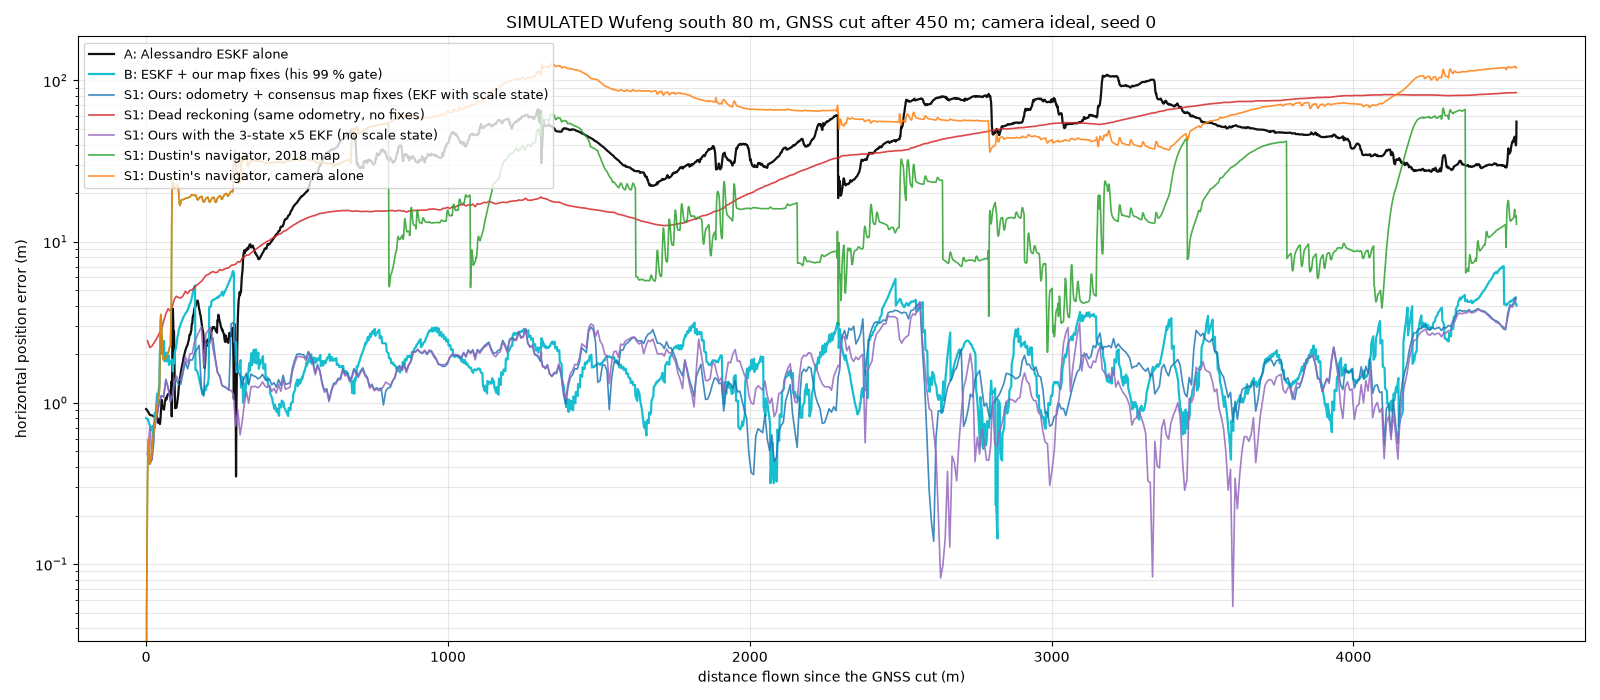
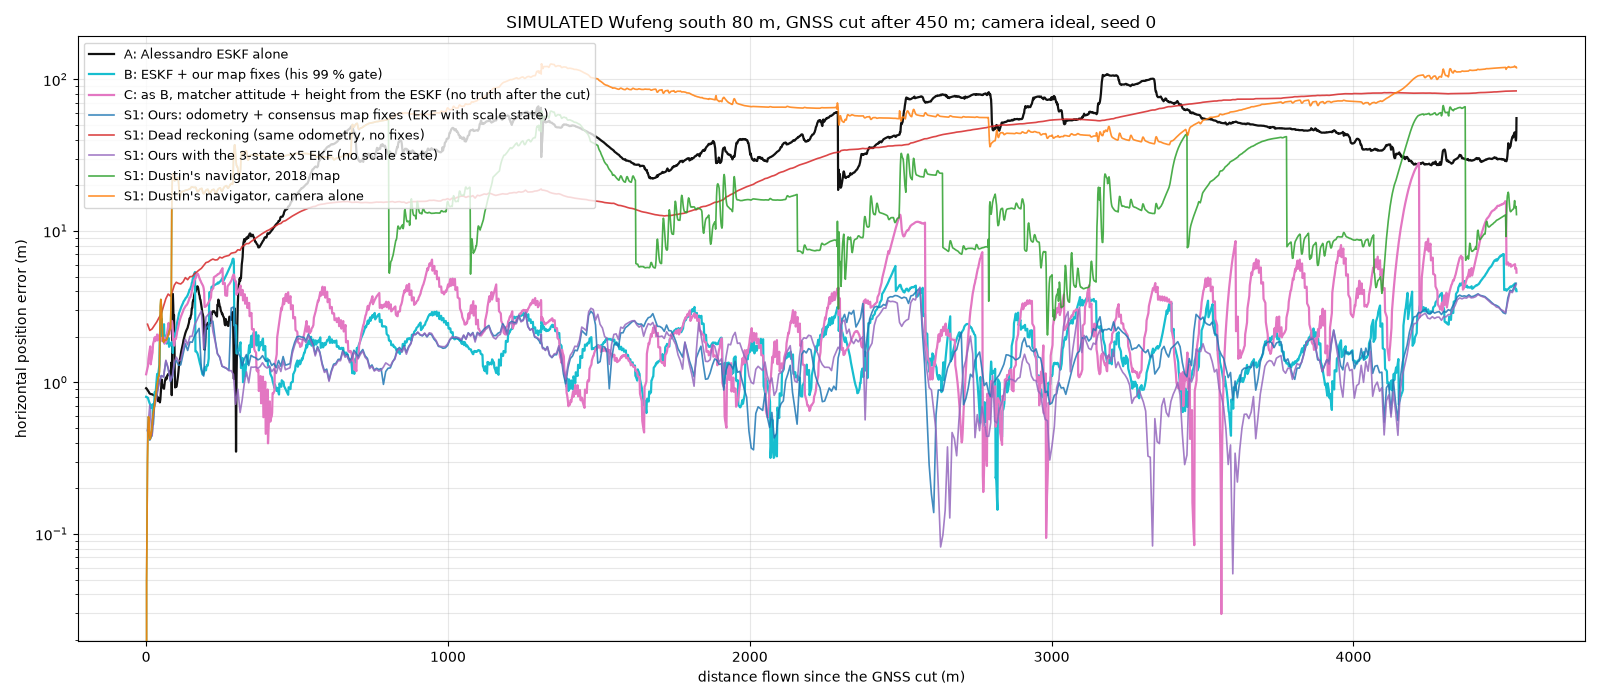
Sim demo: config C (no truth after the cut), blind dry run on an unseen route, honest uncertainty limits

diff --git a/experiments/s2_sim_eskf_fusion.py b/experiments/s2_sim_eskf_fusion.py
@@ -21,6 +21,8 @@ Configurations:
       (outputs/s1_sim/calibration.json fix_sd_m), his 99 % Mahalanobis gate. Fixes are computed LIVE with the
       ESKF's own prior (window centre), sigma (window size), heading and altitude via s1_sim_map_fix.fix_at.
   (No exploratory variant: the brief allowed one only if B rejected most correct fixes; B accepted 506 of 507.)
+  C   B, but the matcher gets the ESKF's FULL attitude (roll, pitch, heading) and height: nothing from truth is used
+      after the cut (in B roll/pitch come from the truth quaternion, S1's AHRS stand-in).
 Randomness: the ESKF and the fixes are deterministic given the inputs; the only random input is the SIMULATED pre-cut
 GNSS noise. Seed 0 = S1's series exactly (load_recording); seeds 1-4 redraw N(0, 1.5 m) per axis at the same times.
 
@@ -88,8 +90,9 @@ FIX_GATE = 0.99          # his gate for camera updates
 FIX_EVERY = 5            # recorded images (5 Hz) -> 1 Hz, as S1
 HEIGHT_LEARN_S = 10.0    # his 2 s at 25 Hz (50 pairs) -> 10 s at 5 Hz (50 pairs)
 WRONG_M = 10.0           # a fix farther than this from truth is "wrong" (S1 convention)
-CONFIGS = {"A": dict(fixes=False), "B": dict(fixes=True)}
-LABELS = {"A": "A: Alessandro ESKF alone", "B": "B: ESKF + our map fixes (his 99 % gate)"}
+CONFIGS = {"A": dict(fixes=False), "B": dict(fixes=True, eskf_tilt=False), "C": dict(fixes=True, eskf_tilt=True)}
+LABELS = {"A": "A: Alessandro ESKF alone", "B": "B: ESKF + our map fixes (his 99 % gate)",
+          "C": "C: as B, matcher attitude + height from the ESKF (no truth after the cut)"}
 
 
 def s1():
@@ -284,10 +287,12 @@ def run(config: str, seed: int = 0, camera: str = "ideal") -> dict:
                 prior = f.p[:2].copy()
                 c0 = time.perf_counter()
                 fx = S1.fix_at(j, prior, sig, compass(f.R), float(f.p[2]), recording=str(REC), route=str(ROUTE),
-                               cam_kind=camera)
+                               cam_kind=camera, R_body_to_enu=f.R.as_matrix() if spec["eskf_tilt"] else None)
                 fix_calls_s += time.perf_counter() - c0
                 row = dict(image=j, t_s=tj, dist_since_cut_m=float(rec.travelled[j] - rec.travelled[rec.cut]),
                            prior_err_m=float(np.hypot(*(prior - tr[:2]))), prior_sigma_m=sig,
+                           tilt_err_deg=float(np.degrees(np.arccos(np.clip(
+                               f.R.as_matrix()[:, 2] @ S1.r_enu_body(rec.q[j])[:, 2], -1.0, 1.0)))),
                            heading_err_deg=float(S1.wrap180(compass(f.R) - S1.heading_of(S1.r_enu_body(rec.q[j])))))
                 if fx is None:
                     row.update(status="nofix")

diff --git a/experiments/s1_sim_map_fix.py b/experiments/s1_sim_map_fix.py
@@ -245,15 +245,19 @@ def load_image(rec: Recording, i: int, cam_kind: str) -> np.ndarray:
     return img
 
 
-def attitude(rec: Recording, i: int, heading_deg: float) -> np.ndarray:
-    """Camera(OpenCV) -> ENU: truth roll/pitch (AHRS stand-in) with the estimator's heading."""
+def attitude(rec: Recording, i: int, heading_deg: float, R_body_to_enu=None) -> np.ndarray:
+    """Camera(OpenCV) -> ENU: truth roll/pitch (AHRS stand-in) with the estimator's heading.
+    R_body_to_enu (optional, 3x3 body FLU -> ENU): an estimator's full attitude, used as is (no truth)."""
+    if R_body_to_enu is not None:
+        return np.asarray(R_body_to_enu, float) @ R_BODY_CV
     R_true = r_enu_body(rec.q[i])
     R_used = rz_up(-float(wrap180(heading_deg - heading_of(R_true)))) @ R_true
     return R_used @ R_BODY_CV
 
 
-def make_query(rec: Recording, i: int, heading_deg: float, height_m: float, cam_kind: str) -> dict:
-    R = attitude(rec, i, heading_deg)
+def make_query(rec: Recording, i: int, heading_deg: float, height_m: float, cam_kind: str,
+               R_body_to_enu=None) -> dict:
+    R = attitude(rec, i, heading_deg, R_body_to_enu)
     q = G.rectify(load_image(rec, i, cam_kind), 1, camera(rec), R, height_m, RES, far_m=1e3)
     q["height_used"] = height_m
     q["fwd"] = np.array([math.sin(math.radians(heading_deg)), math.cos(math.radians(heading_deg))])
@@ -436,7 +440,8 @@ def calibration(cam_kind: str = "ideal") -> dict:
 
 
 def fix_at(image_index: int, prior_en, sigma_m: float, heading_deg: float, height_m: float,
-           recording: str = str(REC_DEFAULT), route: str = str(ROUTE_DEFAULT), cam_kind: str = "ideal"):
+           recording: str = str(REC_DEFAULT), route: str = str(ROUTE_DEFAULT), cam_kind: str = "ideal",
+           R_body_to_enu=None):
     """Camera-to-map fix for one recorded image (cam0 row of images.csv), for an external filter.
 
     prior_en: filter estimate, ENU metres from the route origin (= the recording's truth frame).
@@ -452,7 +457,7 @@ def fix_at(image_index: int, prior_en, sigma_m: float, heading_deg: float, heigh
     off = np.array(cal.get("map_offset_m", (0.0, 0.0)))
     sd = float(cal.get("fix_sd_m", 3.0))
     half = min(WIN_MAX_M, max(WIN_MIN_M, WIN_SIGMA * float(sigma_m)))
-    q = make_query(rec, int(image_index), float(heading_deg), float(height_m), cam_kind)
+    q = make_query(rec, int(image_index), float(heading_deg), float(height_m), cam_kind, R_body_to_enu)
     centre = np.asarray(prior_en, float) + np.array(rec.origin) + off
     t0 = time.perf_counter()
     fx = consensus_fix(load_map(), q, centre, half)

diff --git a/experiments/s2_sim_report.py b/experiments/s2_sim_report.py
@@ -24,7 +24,7 @@ import pandas as pd
 ROOT = Path(__file__).resolve().parents[1]
 sys.path.insert(0, str(ROOT / "experiments"))
 OUT = ROOT / "outputs/s2_sim"
-COLORS = {"A": "#111111", "B": "#17becf"}
+COLORS = {"A": "#111111", "B": "#17becf", "C": "#e377c2"}
 
 
 def metrics(err: np.ndarray) -> dict:

diff --git a/docs/sim-demo/s2-results.md b/docs/sim-demo/s2-results.md
@@ -7,12 +7,12 @@ Every number below is in a file of this folder (paths in brackets). Both cameras
 On the same simulated flight, adding our map fixes to Alessandro's ESKF changes the error after the GNSS cut as
 follows (median over 5 seeds):
 
-| Camera | ESKF alone, median / max | ESKF + our fixes, median / max |
-|---|---|---|
-| Ideal | 56 m / 587 m | 1.7 m / 6.6 m |
-| Realistic (Dustin's camera model) | 169 m / 1,946 m | 1.9 m / 11.0 m |
+| Camera | ESKF alone, median / max | ESKF + our fixes (B), median / max | Same, no truth at all after the cut (C), median / max |
+|---|---|---|---|
+| Ideal | 56 m / 587 m | 1.7 m / 6.6 m | 2.4 m / 17.4 m |
+| Realistic (Dustin's camera model) | 169 m / 1,946 m | 1.9 m / 11.0 m | 2.6 m / 13.9 m |
 
-No wrong fix was accepted. His 99 % gate rejected 0–2 correct fixes per run.
+No wrong fix was accepted in any run. His 99 % gate rejected 0–2 correct fixes per run in B, and 0–21 in C.
 
 ## What was run
 
@@ -22,7 +22,8 @@ No wrong fix was accepted. His 99 % gate rejected 0–2 correct fixes per run.
   Scored from the cut to the end of the route: 4,540 m flown.
 - **Caveat, pre-cut GNSS is SIMULATED.** The recorded `gnss.csv` stops at t = 6.8 s, so before the cut GNSS is
   truth + N(0, 1.5 m) per horizontal axis at 1 Hz. Seed 0 uses exactly S1's series; seeds 1–4 draw new noise.
-  Truth is never used after the cut. The one exception is roll/pitch inside the map matcher (AHRS stand-in, same as S1).
+  Truth is never used after the cut. The one exception is in A and B: roll/pitch inside the map matcher (AHRS
+  stand-in, same as S1). Config C removes that exception.
 - Estimator: `vio/estimation/eskf.py`, unchanged; it is identical to the ale-simulation copy. The offline driver
   `experiments/s2_sim_eskf_fusion.py` reproduces his live sim adapter:
   - start from a settled 0.5 s IMU window (yaw 0; the drone spawns facing east);
@@ -42,6 +43,12 @@ No wrong fix was accepted. His 99 % gate rejected 0–2 correct fixes per run.
       to x/y, following Dan's `on_rf` pattern.
     - Fix covariance = S1's pre-cut calibration: 1.24 m per axis (ideal camera), 1.29 m (realistic camera).
     - Gate: his 99 % chi-square gate (2 dof: 9.21).
+  - **C**: B, but the matcher's full attitude (roll, pitch, heading) comes from the ESKF state, as does its
+    height (B already used the ESKF height). Nothing from truth is used after the cut.
+    - This uses a new optional argument, `R_body_to_enu`, of `s1_sim_map_fix.fix_at`. Its default (`None`) is the
+      old path.
+    - Check: rerunning B seed 0 gives a byte-identical track, flow and GNSS file. Every non-timing fix column is
+      identical too; the only new column is `tilt_err_deg`.
 - Randomness: the filter and the matcher are deterministic. The only random input is the pre-cut GNSS noise, so
   there are 5 seeds of it.
 
@@ -154,6 +161,7 @@ Dustin's per-frame files), read through `s1_sim_report.series`.
 |---|---|---|---|---|---|---|
 | A: Alessandro's ESKF alone | 55.9 | 429 | 587 | 587 | – | – |
 | B: Alessandro's ESKF + our fixes | 1.7 | 3.1 | 6.6 | 4.0 | 506 | 106 |
+| C: as B, no truth after the cut | 2.4 | 5.1 | 17.4 | 5.5 | 488 | 114 |
 | S1, ours: odometry + fixes, EKF with scale state | 1.7 | 2.9 | 5.2 | 4.5 | 511 | 121 |
 | S1, ours, 3-state EKF (no scale state) | 1.7 | 3.0 | 6.0 | 4.4 | 504 | 114 |
 | S1, dead reckoning (same odometry, no fixes) | 28.1 | 80.7 | 84.0 | 84.0 | – | – |
@@ -166,6 +174,7 @@ Dustin's per-frame files), read through `s1_sim_report.series`.
 |---|---|---|---|---|---|---|
 | A: Alessandro's ESKF alone | 168.6 | 1,475 | 1,946 | 1,946 | – | – |
 | B: Alessandro's ESKF + our fixes | 1.9 | 3.9 | 11.0 | 4.1 | 451 | 143 |
+| C: as B, no truth after the cut | 2.6 | 5.2 | 13.9 | 5.5 | 446 | 156 |
 | S1, ours: odometry + fixes, EKF with scale state | 1.8 | 3.2 | 6.4 | 3.9 | 459 | 151 |
 | S1, ours, 3-state EKF (no scale state) | 1.9 | 3.3 | 6.3 | 4.3 | 457 | 148 |
 | S1, dead reckoning (same odometry, no fixes) | 26.9 | 84.9 | 88.3 | 88.3 | – | – |
@@ -175,12 +184,41 @@ Dustin's per-frame files), read through `s1_sim_report.series`.
 Figures: `fig_error_vs_distance_ideal_s0.png` and `fig_error_vs_distance_realistic_s0.png` show error vs
 distance flown since the cut for every estimator, seed 0.
 
+### C vs B: the matcher without truth roll/pitch
+[`summary_eskf_per_run_<camera>.csv` rows C, `runs/<camera>/C_s*_fixes.csv`, log `run_C.log`]
+
+Median over 5 seeds (per-seed range in brackets):
+
+| Camera | Config | Median (m) | p90 (m) | Max (m) | Final (m) | Accepted / rejected fixes | Fix error, median | NEES mean / % above 99 % bound |
+|---|---|---|---|---|---|---|---|---|
+| Ideal | B | 1.7 | 3.1 | 6.6 (6.1–6.9) | 4.0 | 503–507 / 1–2 | 1.6 m | 6.7 / 24 % |
+| Ideal | C | 2.4 | 5.1 | 17.4 (11.8–26.9) | 5.5 | 484–501 / 3–21 | 2.2 m | 13.4 / 48 % |
+| Realistic | B | 1.9 | 3.9 | 11.0 (10.6–15.8) | 4.1 | 444–461 / 0–1 | 1.7 m | 6.5 / 23 % |
+| Realistic | C | 2.6 | 5.2 | 13.9 (11.6–23.3) | 5.5 | 443–454 / 0–1 | 2.3 m | 11.4 / 41 % |
+
+- **Wrong fixes in C:** 0 accepted. There was one wrong fix in total (realistic camera, seed 2: 94 m off). The
+  gate rejected it with NIS 311.
+- **The ESKF's tilt error** (angle between its body z axis and truth's, at fix attempts) is 0.6–0.7° median,
+  1.2–1.5° p90 and 3.2° max. At 80 m, 0.7° moves the ground point under the camera by about 1 m. That matches the
+  fix error growing from 1.6 to 2.2 m.
+- **Why C rejects more correct fixes:** the fix covariance is still S1's pre-cut calibration (1.24–1.29 m sd).
+  It was measured with truth roll/pitch, so it is too tight for C. Correct fixes then fail the gate (seed 0,
+  ideal camera: 21 rejected, NIS 9.3–15.7), and the ESKF becomes more overconfident (NEES 13 vs 7).
+- **C's largest errors** come after runs of 15–20 attempts without an accepted fix: rejected fixes (ideal seed 0,
+  26.9 m at 4.2 km) or no consensus (realistic seed 4, 23.3 m at 2.7 km).
+- **Not done:** recalibrating the fix covariance for C before the cut, using the ESKF's attitude instead of truth.
+  This is the obvious next step. We did not tune on post-cut data.
+- **Comparability:** among our own rows, C is the only one that uses no truth after the cut. B and the S1 rows
+  still take roll/pitch from truth, and S1 also takes heading as truth plus simulated drift. We did not audit
+  Dustin's replay for this.
+
 ## What this does and does not show
 
 - **Shown, same data:**
   - Our fixes fused into Alessandro's ESKF bring it from hundreds of metres to under 7 m (ideal camera) and under
     16 m (realistic camera) everywhere.
-  - His gate accepts them; no wrong fix entered.
+  - With no truth at all after the cut (C), they still keep it under 27 m everywhere: median 2.4–2.6 m.
+  - His gate accepts them; no wrong fix entered in any configuration.
   - With the same fixes, his ESKF and our EKF have the same median error (1.7 m ideal, 1.8–1.9 m realistic). The
     fixes dominate.
   - His ESKF has a higher worst case: max 6.6 vs 5.2 m on the ideal camera, 11.0 vs 6.4 m on the realistic one.
@@ -203,8 +241,10 @@ PY=/Users/ilhan.neuville/dev/hackathon/TaipeiDrift/.venv/bin/python
 $PY experiments/s2_sim_eskf_fusion.py run --config A B --seeds 0 1 2 3 4 --workers 3 --camera ideal       # ~2.5 min per B run
 $PY experiments/s2_sim_eskf_fusion.py run --config A --seeds 0 --camera realistic                         # builds the flow cache first
 $PY experiments/s2_sim_eskf_fusion.py run --config B A --seeds 0 1 2 3 4 --workers 3 --camera realistic
+$PY experiments/s2_sim_eskf_fusion.py run --config C --seeds 0 1 2 3 4 --workers 3 --camera ideal
+$PY experiments/s2_sim_eskf_fusion.py run --config C --seeds 0 1 2 3 4 --workers 3 --camera realistic
 $PY experiments/s2_sim_report.py --camera ideal --seed 0
 $PY experiments/s2_sim_report.py --camera realistic --seed 0
 ```
 
-Logs: `run_ideal.log`, `run_realistic.log`. Flow pairs cache: `cache/flow_pairs_<recording>_<camera>.pkl`.
+Logs: `run_ideal.log`, `run_realistic.log`, `run_C.log`. Flow pairs cache: `cache/flow_pairs_<recording>_<camera>.pkl`.

diff --git a/docs/sim-demo/README.md b/docs/sim-demo/README.md
@@ -38,6 +38,38 @@ reckoning) and [s2-results.md](s2-results.md) (Alessandro's ESKF).
 ![Error vs distance, ideal camera](fig_error_vs_distance_ideal.png)
 ![Error vs distance, realistic camera](fig_error_vs_distance_realistic.png)
 
+## No truth at all after the cut (config C, Alessandro's ESKF)
+
+In config C the matcher receives roll, pitch, heading **and** height from the ESKF state instead of the truth, so
+nothing from the truth is used after the GNSS cut. Median over 5 seeds (median / p90 / max / final):
+
+| Camera | B (roll/pitch from truth) | **C (nothing from truth)** | Wrong fixes accepted (C) |
+|---|---|---|---|
+| Ideal | 1.7 / 3.1 / 6.6 / 4.0 m | **2.4 / 5.1 / 17.4 / 5.5 m** (max 11.8–26.9 m across seeds) | 0 (one 94 m wrong fix was rejected by the gate) |
+| Realistic | 1.9 / 3.9 / 11.0 / 4.1 m | **2.6 / 5.2 / 13.9 / 5.5 m** (max 11.6–23.3 m) | 0 |
+
+Why C is worse: the ESKF tilt error (0.6–0.7° median, 3.2° max) moves the matched ground point by about 1 m at
+80 m, and the fix covariance was calibrated with truth roll/pitch, so it is too tight for C (correct fixes get
+gated, NEES rises from about 7 to 13). Next step: recalibrate it before the cut with the ESKF attitude.
+Command: `experiments/s2_sim_eskf_fusion.py run --config C ...`; details in [s2-results.md](s2-results.md).
+
+## Blind dry run: a route the code had never seen (frozen code, nothing tuned)
+
+Before handing this over I recorded a new route, `wufeng_north_120m` (120 m high, 12 m/s, 4.8 km; the
+development flight was 80 m and 8 m/s), and ran the code exactly as pushed in commit `629af5c`, in a separate
+checkout, 5 seeds, ideal camera, our filter. Scored by our code and by Dustin's scorer (same medians):
+
+| Seed | Median | Max | Final | Fixes used | Wrong fixes used | Within 3 sigma (Dustin's scorer) | Dead reckoning median / final |
+|---|---|---|---|---|---|---|---|
+| 0 | 2.8 m | 12.1 m | 3.5 m | 303 | 0 | 70 % | 22.7 / 82.6 m |
+| 1 | 1.6 m | 4.9 m | 3.3 m | 351 | 0 | 80 % | 7.0 / 25.2 m |
+| 2 | 1.8 m | 5.2 m | 2.4 m | 346 | 0 | 80 % | 29.8 / 159.3 m |
+| 3 | 2.1 m | 4.9 m | 2.4 m | 352 | 0 | 80 % | 14.6 / 62.4 m |
+| 4 | 2.1 m | 5.5 m | 4.0 m | 360 | 0 | 70 % | 42.1 / 146.5 m |
+
+It holds on the new route (median 1.6–2.8 m, no wrong fix, 0 % hazardous), **but the stated uncertainty is
+clearly too small here: the error is inside 3 sigma only 70–80 % of the time.** That is the main thing to fix.
+
 ## Three checks that a cheating system would fail (seed 0, our filter, ideal camera)
 
 | Check | Median / max error | Fixes accepted | What it shows |
@@ -104,12 +136,15 @@ What to check:
 ## Limits you should hold me to
 
 1. **Only one recording so far, and two changes were made after looking at it** (odometry template in turns, and a
-   barometer-scale state in the filter). So this is **not** a held-out test yet: that is what your secret flight is for.
-2. **Roll and pitch come from the truth** inside the matcher (an AHRS would give them from gravity, with small
-   errors). Heading uses truth + simulated drift (constant N(0, 2°) + random walk 0.1°/√s).
+   barometer-scale state in the filter). The blind dry run on `wufeng_north_120m` (above) is a first held-out
+   check by me; your secret flight is the real one.
+2. **In our filter (and in ESKF config B) roll and pitch come from the truth** inside the matcher (stand-in for an
+   AHRS) and the heading is truth + simulated drift (constant N(0, 2°) + random walk 0.1°/√s). **Config C removes
+   this**: everything comes from Alessandro's ESKF, and the median goes from 1.7 to 2.4 m.
 3. **Pre-cut GNSS is simulated** (truth + 1.5 m noise): the recorder wrote only 7 GNSS rows (`gnss.csv` stops at
-   t = 6.8 s). Dan, this looks like a recorder bug.
-4. **The stated uncertainty is too small**: the true error is inside our 3-sigma only 91–97.5 % of the time.
+   t = 6.8 s; 2 rows on the second flight). Dan, this looks like a recorder bug.
+4. **The stated uncertainty is too small**: the true error is inside our 3-sigma only 91–97.5 % of the time on the
+   development flight and **70–80 %** on the blind route. Do not use our sigma as an integrity bound yet.
 5. **Fixes are much easier here than on real photos**: 83 % of attempts succeed in simulation versus about 30 % on
    real DJI photos (Tuniu, `docs/research/tuniu-step1-results.md` on `research/offline-nav-evidence`).
 6. **The comparison with Dustin's navigator is not fully like-for-like**: even at his 300 m spacing ours stays
